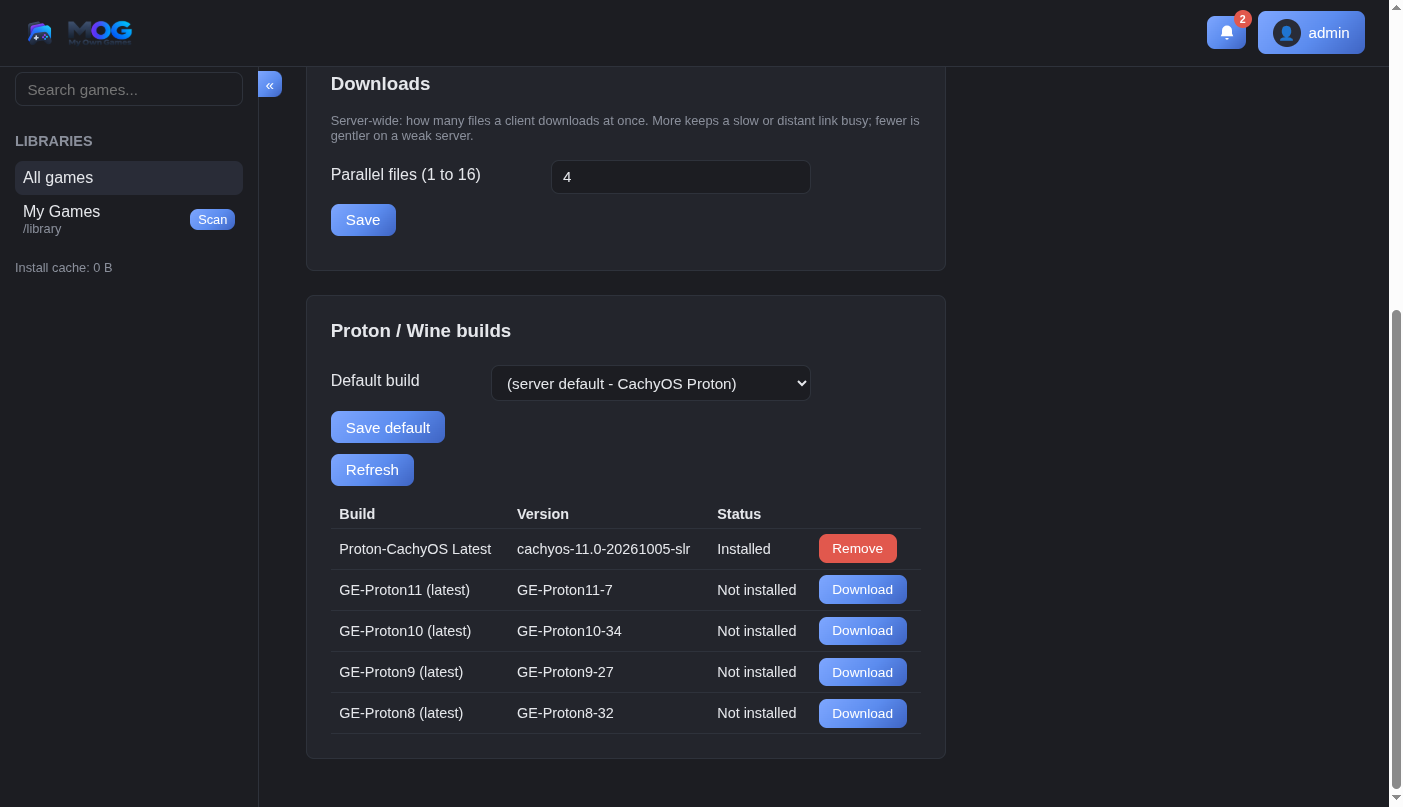
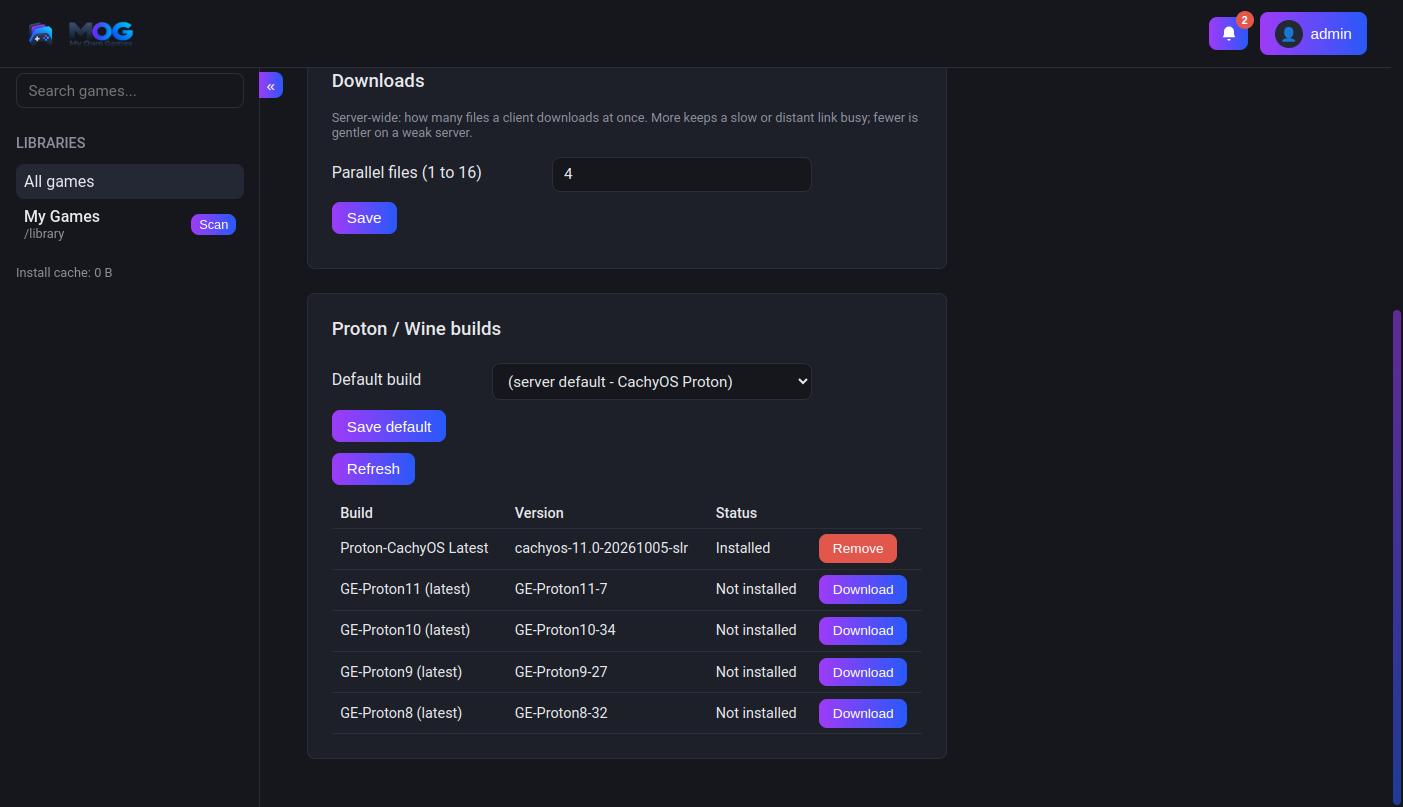
doc(screenshots): updated to reflect the new UI

diff --git a/CLAUDE.md b/CLAUDE.md
@@ -1,0 +1,63 @@
+# MOG organisation profile - Agent Guide
+
+The organisation's profile README (`profile/README.md`) and the images it shows (`res/screenshots/`).
+
+## Never commit or push without being directly asked
+
+Do not run `git commit` or `git push` unless the user explicitly asks for that action in that turn.
+
+## Retaking the screenshots
+
+The README shows these files; keep the names, so the README needs no edit:
+
+| File | What it shows |
+| --- | --- |
+| `client-game-list.png` | the client's library (1316x797) |
+| `client-game-details.png` | the client's page of One Must Fall: 2097 (1316x797) |
+| `server-game-list.png` | the web UI library (1403x807) |
+| `server-game-overview.png` | a game with hero, logo, icon and videos, window 1403x1010 (Twinsen's LBA2) |
+| `server-install.png` | the Install tab while an installer runs: an **animated PNG**, three frames |
+| `server-proton.png` | Settings > Install defaults, scrolled to Proton / Wine builds |
+| `server-scraper.png` | the scrape dialog (Return to Monkey Island) |
+| `server-saves.png` | Files > Saves (see below: sample data) |
+
+### Where to run it
+
+The agent's sandbox cannot reach the user's real setup. Run the capture scripts on the host with
+`flatpak-spawn --host env QT_QPA_PLATFORM=wayland python3 <script>`; the host has Python 3 with PySide6
+(and Qt WebEngine) and the user's own client config (`~/.config/mog-client/config.json`: server address, user
+and password) and library. Work in `~/.cache/mog-shots/` (the sandbox and the host both see it), put the PNGs
+in `out/`, and delete the whole folder when finished, but only **after** the images have been copied into the
+repo and any animation has been built (the frames are gone with it).
+
+- **Client**: import `mog_client` from `~/gits/MOG/MOG-Client` (so uncommitted work shows), build `App()` and
+  `MainWindow(app)`, call `app.refresh()`, wait until `len(win.covers) >= len(app.games)`, then
+  `win.grab().save(...)`. Neutralise `win.saves.check_all` and `win.settle_steam` first: a screenshot must not
+  sync saves or touch Steam. Do not capture Settings > Server (it shows the address and user).
+- **Server**: `QWebEngineView` with an off-the-record `QWebEngineProfile`. **Keep the profile in a variable**: a
+  temporary one is destroyed at once and the process segfaults (exit 139). Sign in by filling `#login-user` and
+  `#login-pass` from the config and submitting `#login-form`, then drive the page with `location.hash`
+  (`game/<id>`, `settings/install`), the tab buttons and the page's own JS functions. The server serves its
+  own frontend, so a screenshot shows whatever the server currently runs.
+
+### Rules
+
+- **No sensitive data**: no machine name, no IP address or host, no user other than `admin`. After capturing,
+  run `strings -n 4 file.png | grep -iE "<host>|<ip>|<machine name>"` for each file, and look at every image.
+  Device names on the Saves panel are replaced in the DOM before the shot (use `desktop`). The noVNC status bar
+  of the installer display says `Connected ... to <container id>:100` in the first moment: do not use frames
+  that show it.
+- **Read-only against the server**: never press Scrape (it rewrites the game's metadata and artwork). Build the
+  scrape dialog from `GET /api/games/<id>/media/candidates` with `renderMediaChoices` instead, and open the
+  modal without the POST.
+- **Install shot**: it needs a real install. Use a small game with one installer (Jazz Jackrabbit Collection,
+  id 15), click Install in the Install tab, capture frames every ~2 s while the display runs (about 30 s with
+  Auto mode on), then `POST /api/games/<id>/install/cancel` and `DELETE /api/games/<id>/install` (the install
+  cache) and check `GET /api/games/<id>/install` is 404. Build the APNG with Pillow from three frames (language
+  dialog, installing, installed successfully), `duration=[2200, 2600, 3200]`, `loop=0`, and save it as
+  `server-install.png`.
+- **Saves shot**: the server may hold no saves. Then fill the panel through the page's `renderSavesPanel()` with
+  sample versions of a device called `desktop` and say so to the user; never upload saves just for a picture.
+- A game that has been removed from the server (check `GET /api/games`) cannot be shot: pick another with the
+  same features (hero, logo, icon, videos) and tell the user.
+- Write texts in English, without em-dashes.
